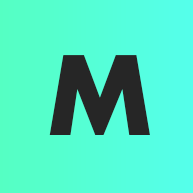
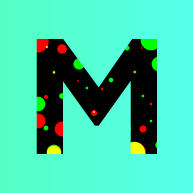
updated fav pic

Changed region(s): [[0.1865, 0.1865, 0.8394, 0.8083]]

diff --git a/projects.html b/projects.html
@@ -16,7 +16,7 @@
     <link href="https://fonts.googleapis.com/css?family=Montserrat:400,500,700,900" rel="stylesheet">
     <link rel="stylesheet" href="assets/reset.css">
     <link rel="stylesheet" href="assets/styles.css">
-
+    <link rel="icon" href="assets/fav.png">
   </head>
   <body class="works-body">
 
